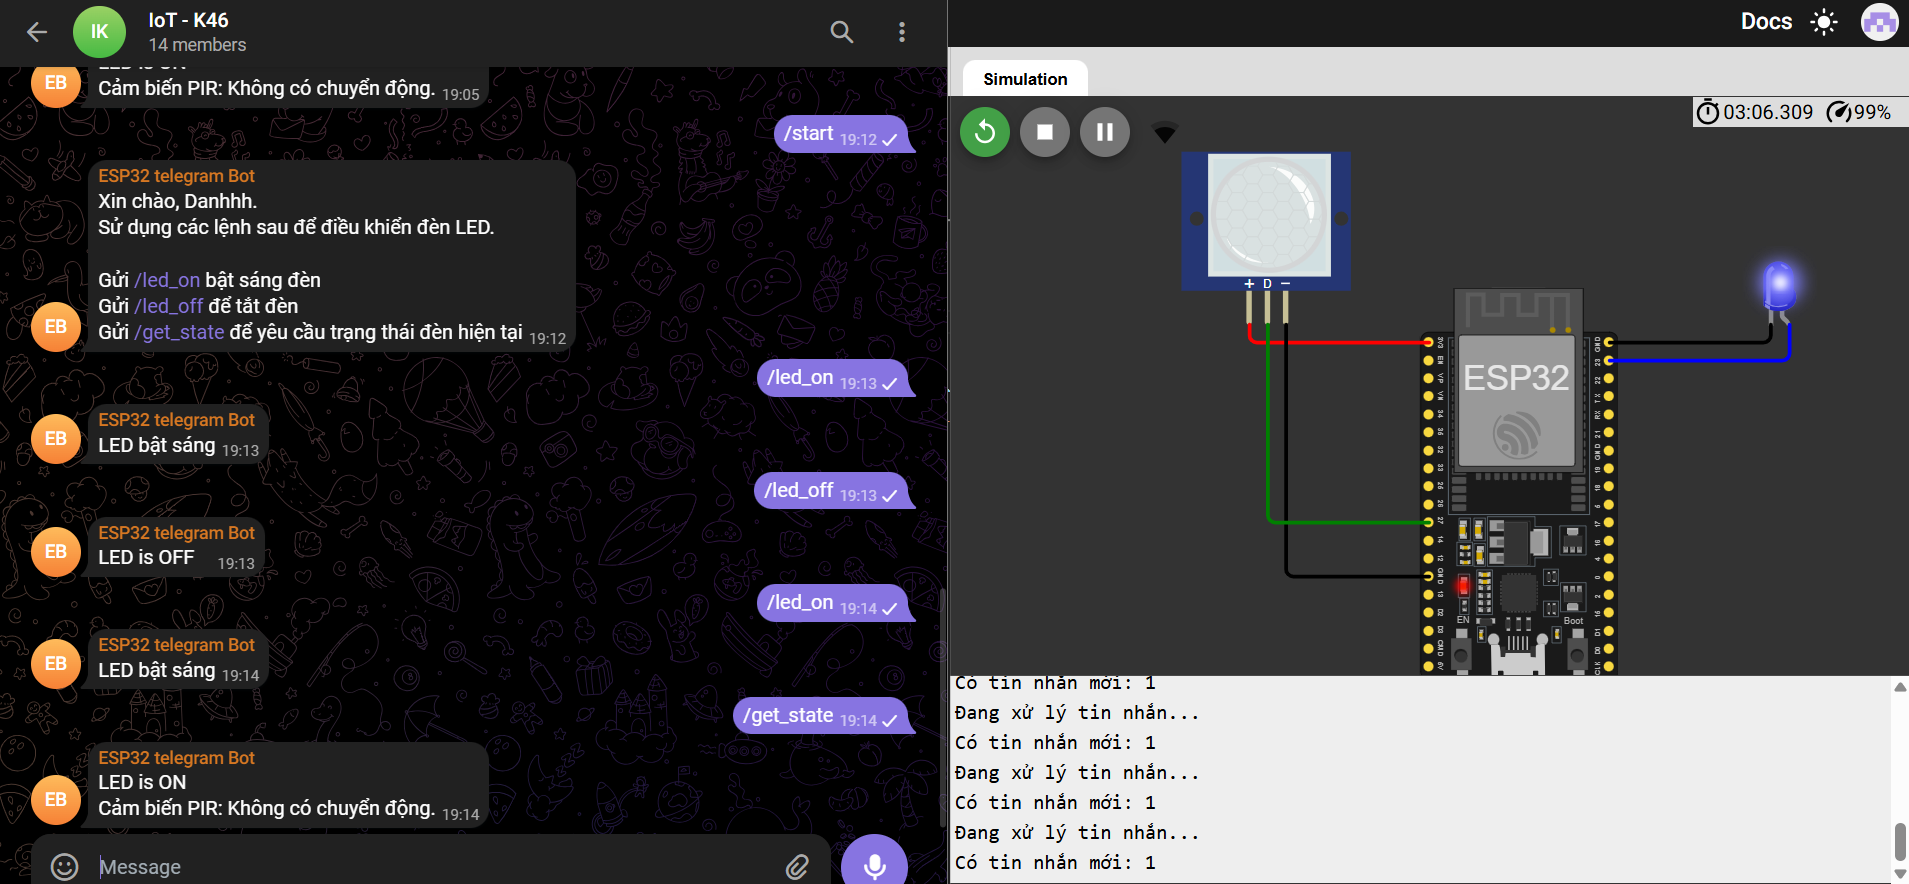
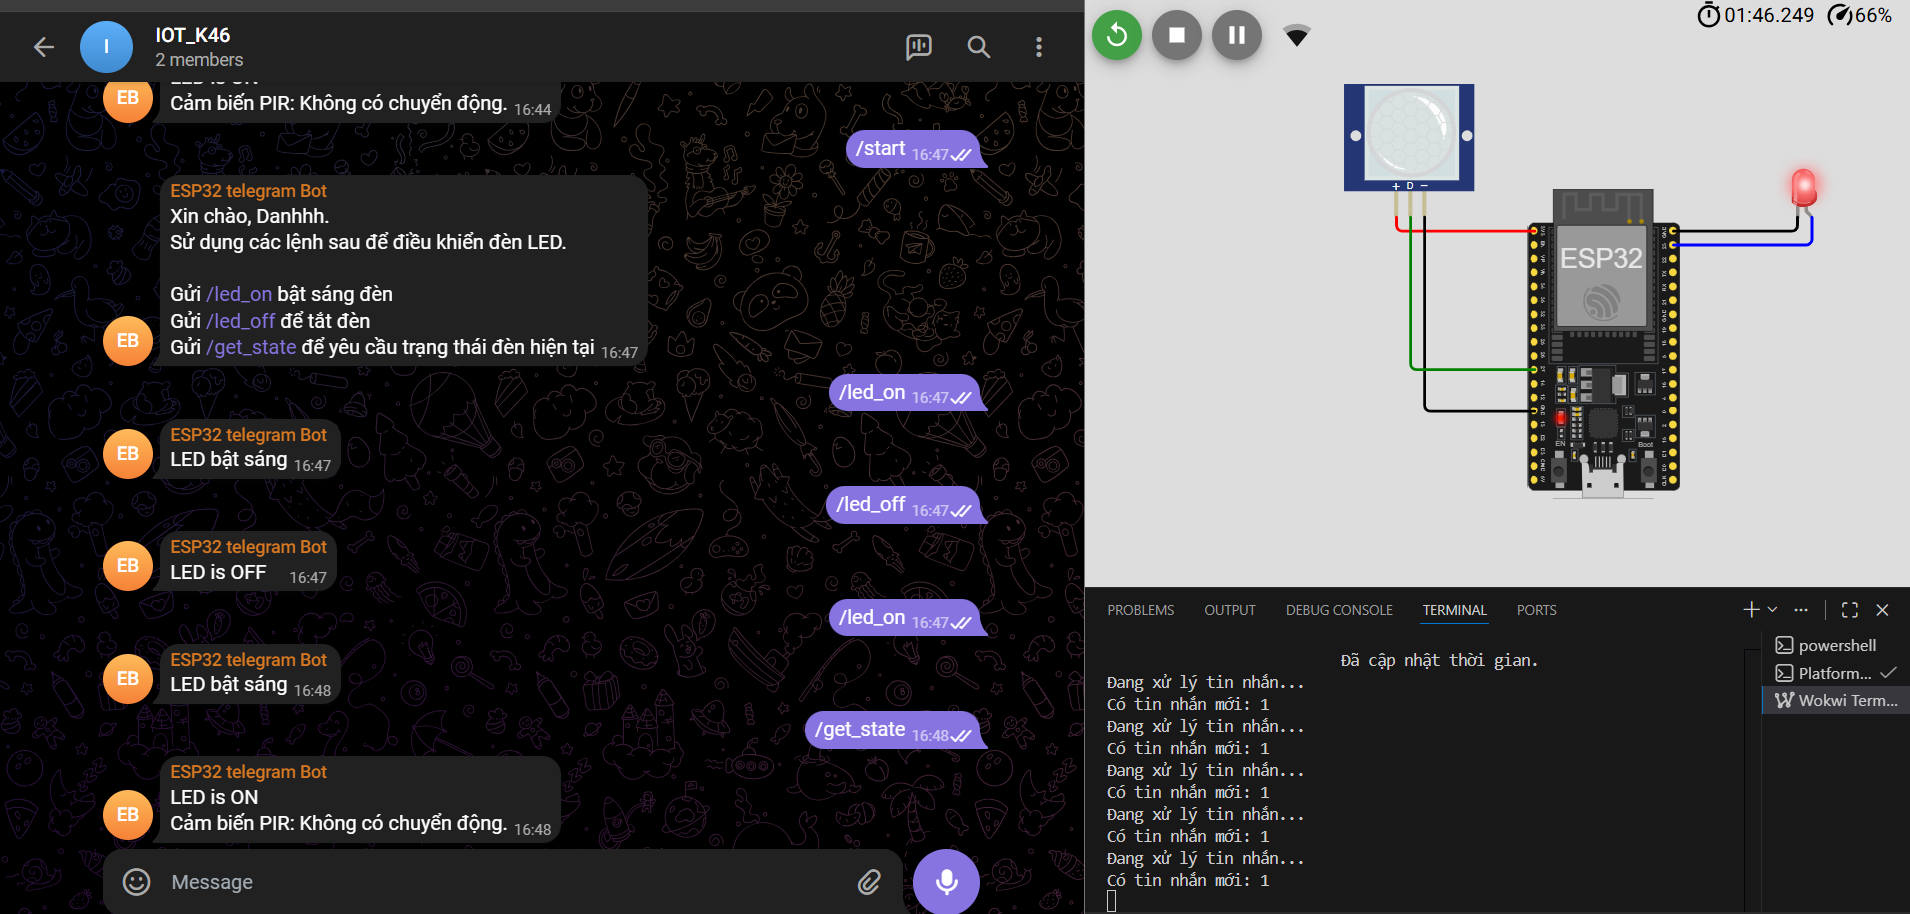
up

diff --git a/TEAM_16/nguyenaidanh_22t1020052/IOT_telegram_Bot/src/main.cpp b/TEAM_16/nguyenaidanh_22t1020052/IOT_telegram_Bot/src/main.cpp
@@ -12,7 +12,7 @@ const char* password = "";
 #define BOT_TOKEN "8395175272:AAGv_RXH4CylJGITAU-dAzCvf2wUCHuYjGQ"
 
 // Cấu hình Group ID (Đã điền Group ID từ ảnh của bạn)
-#define GROUP_CHAT_ID "-5115367463"
+#define GROUP_CHAT_ID "-5216104297"
 
 WiFiClientSecure secured_client;
 UniversalTelegramBot bot(BOT_TOKEN, secured_client);
